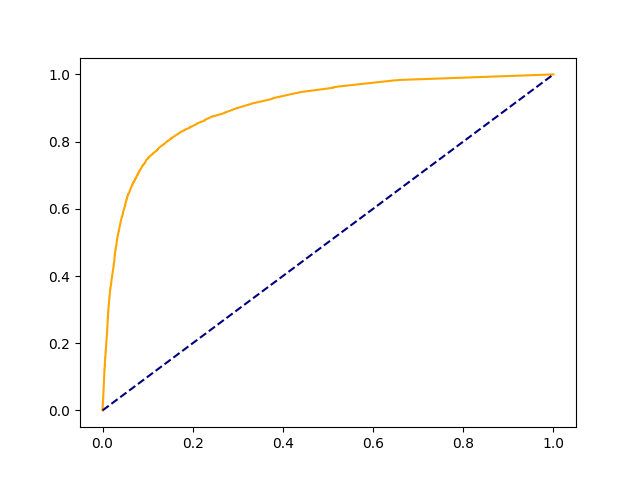
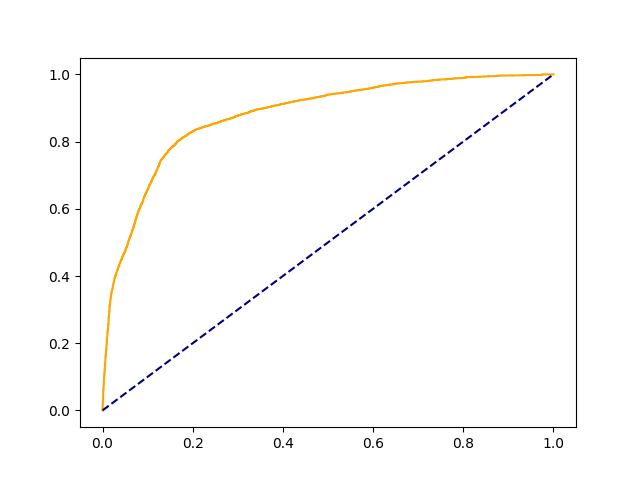
Binary classifier model 1.0.6

Changed region(s): [[0.2812, 0.1562, 0.8125, 0.2812], [0.1562, 0.2812, 0.2812, 0.75]]

diff --git a/model/classifier.py b/model/classifier.py
@@ -1,6 +1,6 @@
 from pandas import DataFrame
 
-from sklearn.ensemble import RandomForestClassifier
+from sklearn.linear_model import LogisticRegression
 
 from model.save import SaveModel
 
@@ -8,11 +8,11 @@ from typing import Any
 
 
 class BinaryClassifierModel:
-    classifier: RandomForestClassifier = None
+    classifier: LogisticRegression = None
 
     @classmethod
     def binary_classifier(cls) -> None:
-        cls.classifier = RandomForestClassifier()
+        cls.classifier = LogisticRegression()
 
     @classmethod
     def train(cls, x_train: DataFrame, y_train: DataFrame) -> None:
@@ -29,5 +29,5 @@ class BinaryClassifierModel:
         return y_predict
 
     @classmethod
-    def model(cls) -> RandomForestClassifier:
+    def model(cls) -> LogisticRegression:
         return cls.classifier

diff --git a/model/save.py b/model/save.py
@@ -2,8 +2,6 @@ import joblib
 
 import pandas as pd
 
-from sklearn.ensemble import RandomForestClassifier
-
 from consts import MODEL_INFO_PATH, TRAINED_MODEL_PATH
 
 from typing import Any
@@ -15,7 +13,7 @@ class SaveModel:
     COMPRESS: int = 9
     FILENAME: str = TRAINED_MODEL_PATH
 
-    def __init__(self, model: RandomForestClassifier) -> None:
+    def __init__(self, model: Any) -> None:
         self.model = model
 
     def save(self) -> None:

diff --git a/consts.py b/consts.py
@@ -6,5 +6,5 @@ DROP_COLUMNS = [
 
 MODEL_INFO_PATH = r"C:\Users\andre\TyuiuProjectParser\TestTeleBot\model\info"
 
-TRAINED_MODEL_PATH = r"C:\Users\andre\TyuiuProjectParser\TestTeleBot\model\weights\random_forrest_model.joblib"
+TRAINED_MODEL_PATH = r"C:\Users\andre\TyuiuProjectParser\TestTeleBot\model\weights\logistic_regression_model.joblib"
 

diff --git a/train.py b/train.py
@@ -32,7 +32,7 @@ def predict_model(model: BinaryClassifierModel.model) -> Any:
     return y_predict
 
 
-def metrics(model: BinaryClassifierModel.model, y_predict: Any) -> None:
+def metrics(y_predict: Any) -> None:
     model_metrics = Metrics(
         y_predict=y_predict,
         y_test=y_test

diff --git a/main.py b/main.py
@@ -10,10 +10,7 @@ def main() -> None:
     model = train_model()
     classifier = model.model()
     y_predict = predict_model(model=model)
-    metrics(
-        model=model,
-        y_predict=y_predict
-    )
+    metrics(y_predict=y_predict)
     plots(model=classifier)
 
 
